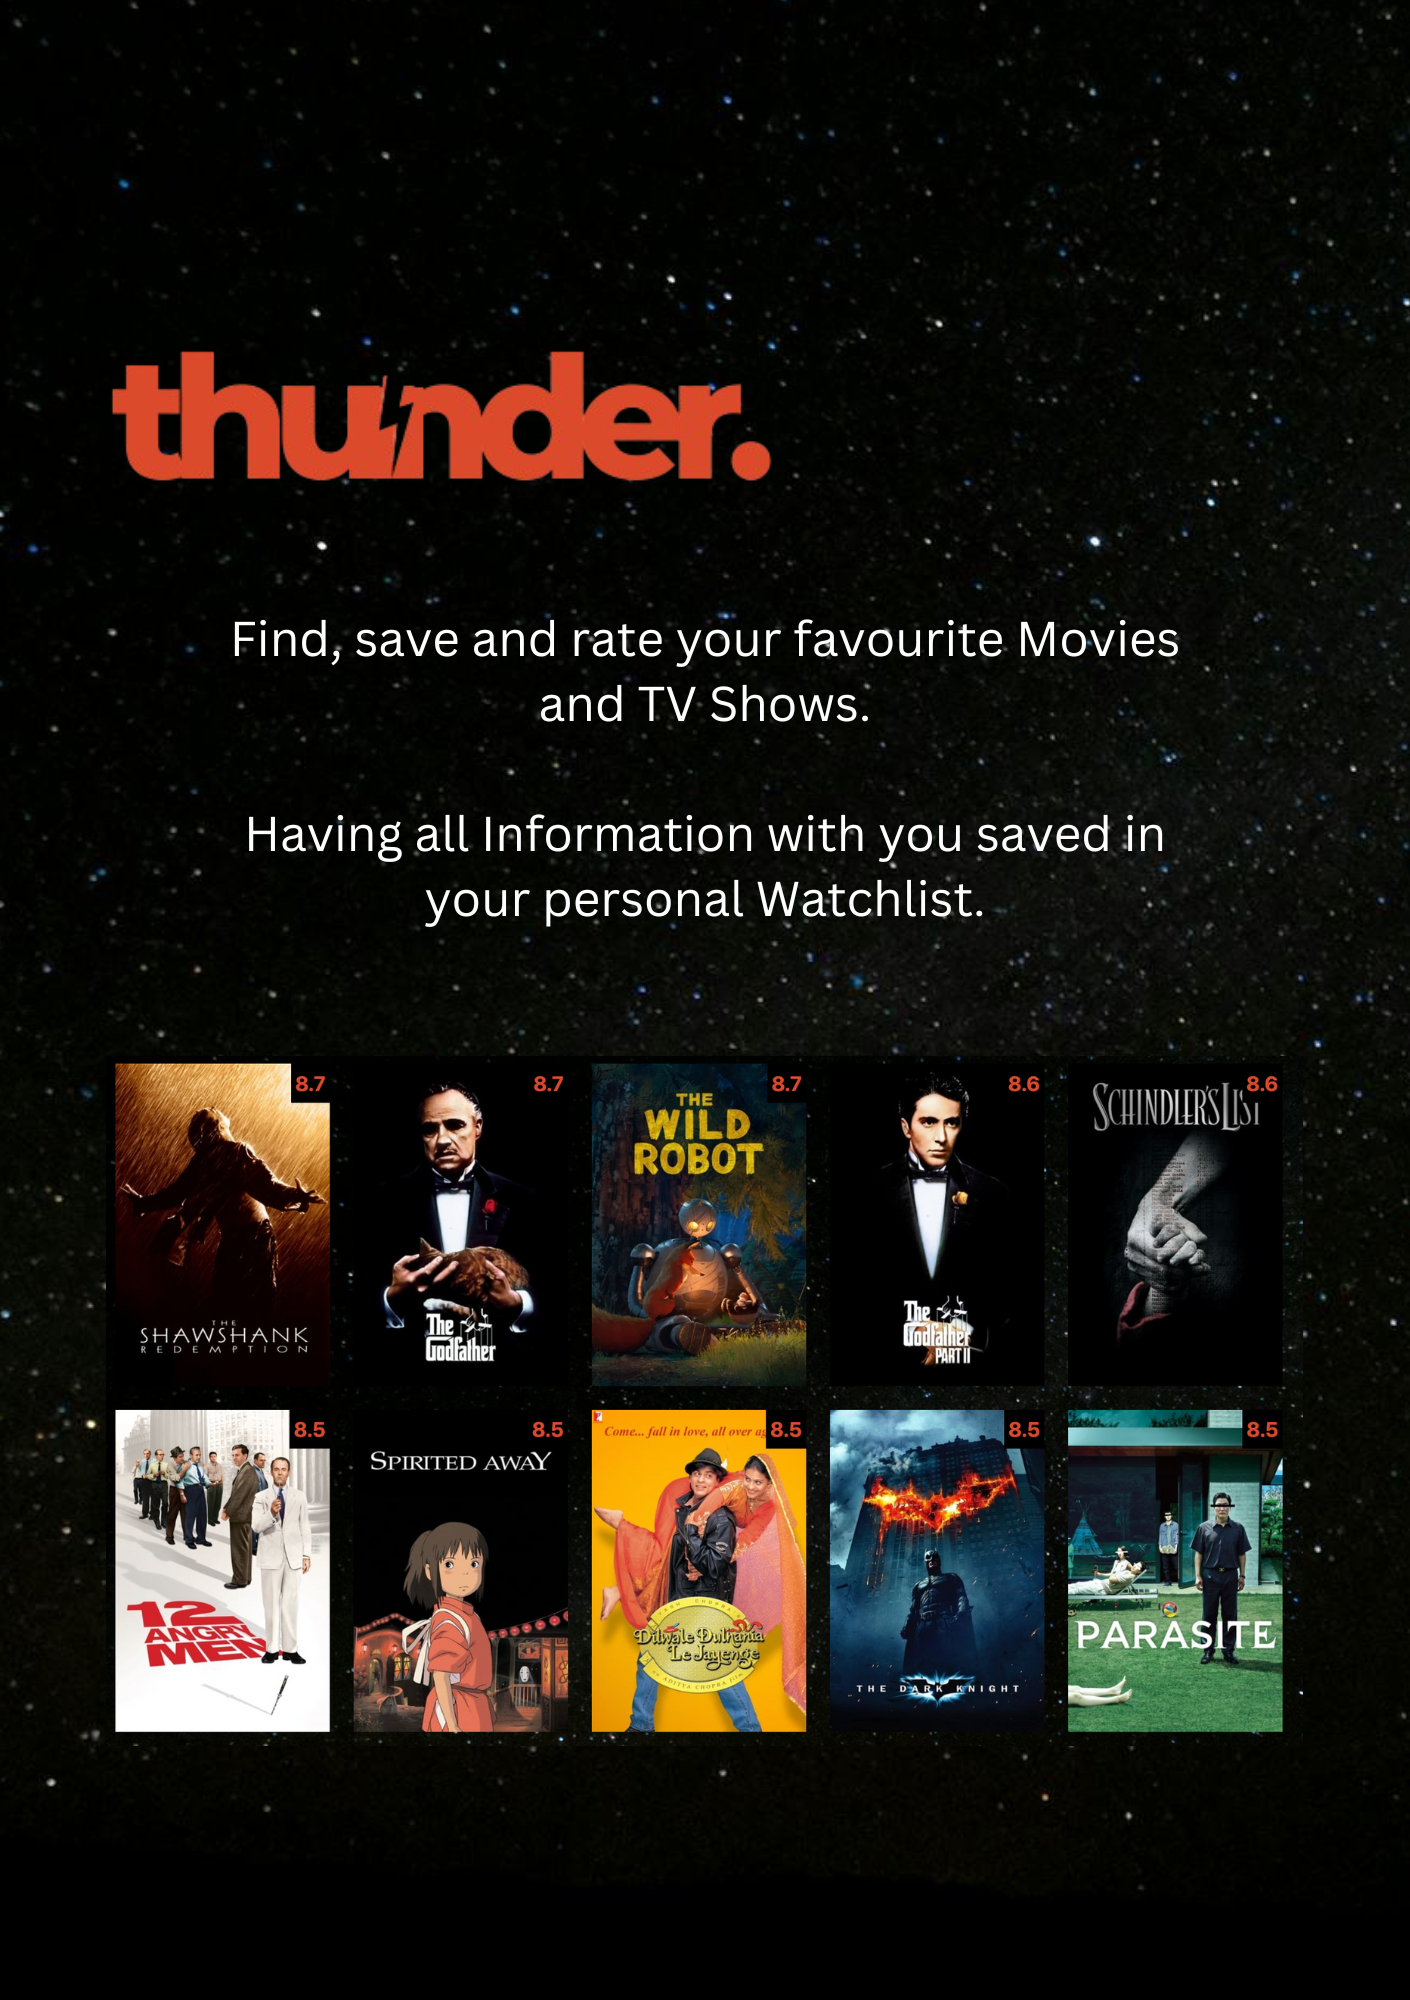
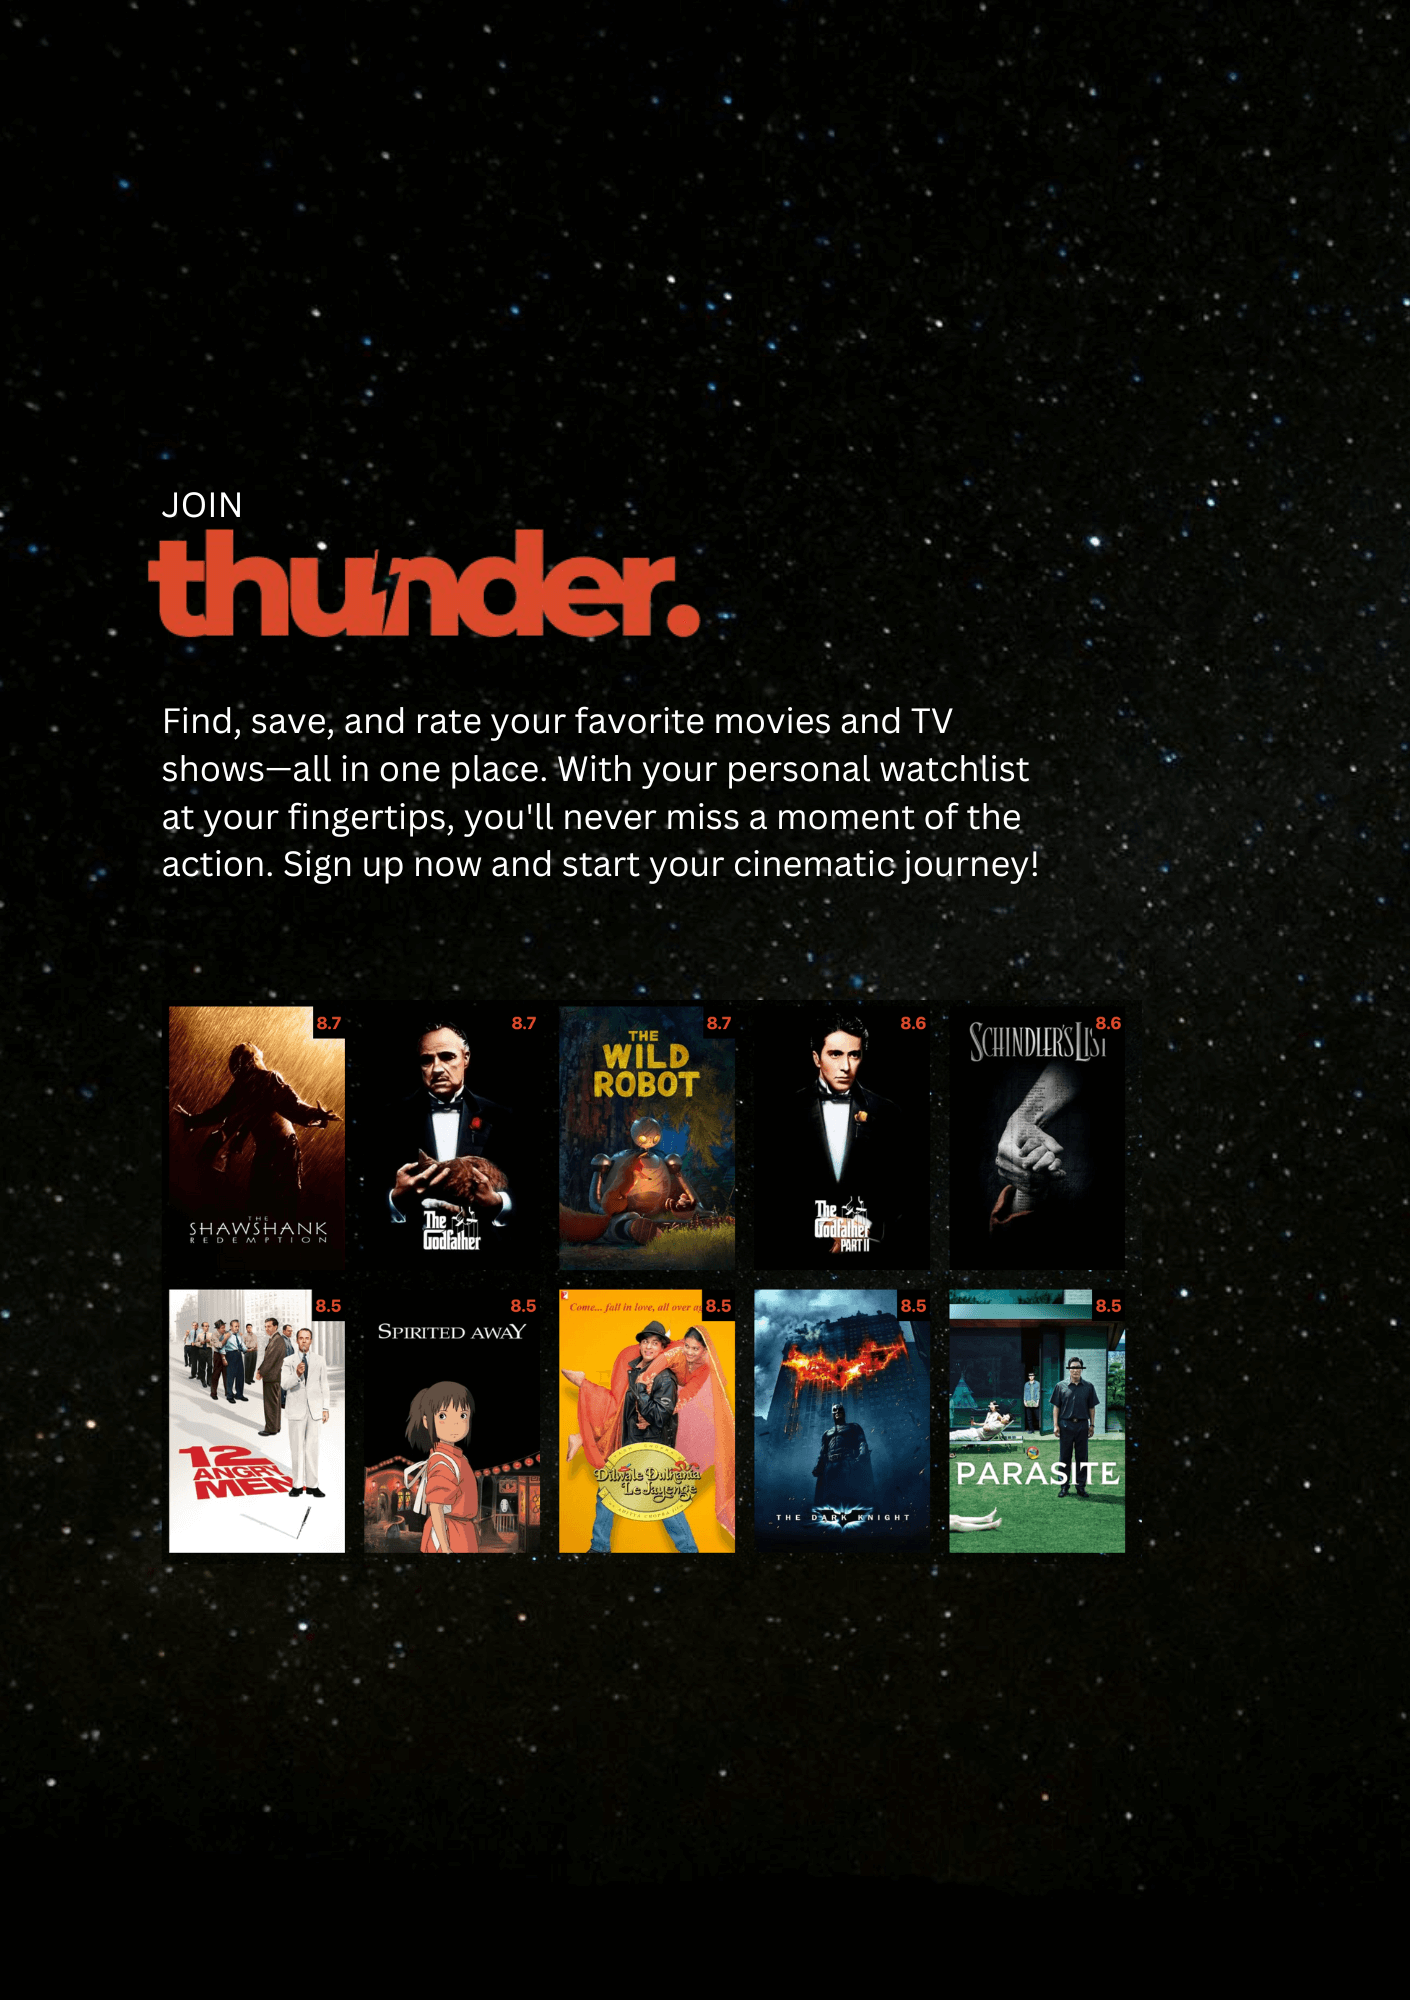
Designed Sign up and Login Page

Changed region(s): [[0.0624, 0.496, 0.9362, 0.868], [0.0624, 0.155, 0.8426, 0.465]]

diff --git a/templates/account/login.html b/templates/account/login.html
@@ -1,0 +1,143 @@
+{% load i18n %}
+{% load allauth account %}
+
+
+<style>
+    :root {
+        --main-orange: #db4a2b;
+    }
+
+    body, html {
+        margin: 0;
+        padding: 0;
+        height: 100%;
+    }
+
+    .login-container {
+        display: grid;
+        grid-template-columns: 60% 40%;
+        height: 100vh;
+        background-image: url("/static/css/images/background_space.jpg");
+    }
+    .login-image {
+        background-image: url("/static/css/images/thunder_login_sign_up_background.png");
+        background-size: cover;
+        background-position: center;
+    }
+    .login-form {
+        display: flex;
+        flex-direction: column;
+        justify-content: center;
+        padding: 40px;
+        color: white;
+        border-left: 1px var(--main-orange) solid;
+        font-size: 18px;
+    }
+    .helptext {
+        display: none;
+    }
+    .login-form h1 {
+        margin-bottom: 10px;
+        color: var(--main-orange);
+    }
+    .login-form button {
+        font-size: 20px;
+        font-weight: bold;
+        background-color: var(--main-orange);
+        color: white;
+        padding: 5px 10px;
+        width: 200px;
+        margin-bottom: 70px;
+        margin-top: 20px;
+        border-radius: 20px;
+        outline: none;
+        border: none;
+        cursor: pointer;
+    }
+    .login-form button:hover {
+        background-color: #c43a2a;
+    }
+
+    input {
+        border-radius: 20px;
+        padding: 5px 10px;
+        border: 2px solid var(--main-orange);
+        font-size: 18px;
+        background-color: #fae8e5;
+    }
+
+    a {
+        color: var(--main-orange);
+    }
+
+    label {
+        display: none;
+    }
+
+    label[for="id_remember"] {
+        display: inline-block;
+    }
+
+    input[type="checkbox"]:checked {
+        accent-color: var(--main-orange);
+    }
+
+    h1 {
+        font-size: 50px;
+    }
+</style>
+
+{% block content %}
+    <div class="login-container">
+        <div class="login-image"></div>
+        <div class="login-form">
+            {% element h1 %}
+                {% trans "Sign In" %}
+            {% endelement %}
+            {% if not SOCIALACCOUNT_ONLY %}
+                {% setvar link %}
+                    <a href="{{ signup_url }}">
+                {% endsetvar %}
+                {% setvar end_link %}
+                    </a>
+                {% endsetvar %}
+                {% element p %}
+                    {% blocktranslate %}If you have not created an account yet, then please {{ link }}sign up{{ end_link }} first.{% endblocktranslate %}
+                {% endelement %}
+                {% url 'account_login' as login_url %}
+                {% element form form=form method="post" action=login_url tags="entrance,login" %}
+                    {% slot body %}
+                        {% csrf_token %}
+                        {% element fields form=form unlabeled=True %}
+                        {% endelement %}
+                        {{ redirect_field }}
+                    {% endslot %}
+                    {% slot actions %}
+                        {% element button type="submit" tags="prominent,login" %}
+                            {% trans "Sign In" %}
+                        {% endelement %}
+                    {% endslot %}
+                {% endelement %}
+            {% endif %}
+            {% if LOGIN_BY_CODE_ENABLED or PASSKEY_LOGIN_ENABLED %}
+                {% element hr %}
+                {% endelement %}
+                {% element button_group vertical=True %}
+                    {% if PASSKEY_LOGIN_ENABLED %}
+                        {% element button type="submit" form="mfa_login" id="passkey_login" tags="prominent,login,outline,primary" %}
+                            {% trans "Sign in with a passkey" %}
+                        {% endelement %}
+                    {% endif %}
+                    {% if LOGIN_BY_CODE_ENABLED %}
+                        {% element button href=request_login_code_url tags="prominent,login,outline,primary" %}
+                            {% trans "Mail me a sign-in code" %}
+                        {% endelement %}
+                    {% endif %}
+                {% endelement %}
+            {% endif %}
+            {% if SOCIALACCOUNT_ENABLED %}
+                {% include "socialaccount/snippets/login.html" with page_layout="entrance" %}
+            {% endif %}
+        </div>
+    </div>
+{% endblock content %}

diff --git a/templates/account/signup.html b/templates/account/signup.html
@@ -13,8 +13,9 @@
 
     .signup-container {
         display: grid;
-        grid-template-columns: 1fr 1fr;
+        grid-template-columns: 60% 40%;
         height: 100vh;
+        background-image: url("/static/css/images/background_space.jpg");
     }
     .signup-image {
         background-image: url("/static/css/images/thunder_login_sign_up_background.png");
@@ -24,8 +25,12 @@
     .signup-form {
         display: flex;
         flex-direction: column;
-        justify-content: center;
+        justify-content: flex-end;
         padding: 40px;
+        color: white;
+        border-left: 1px var(--main-orange) solid;
+        font-size: 18px;
+        
     }
     .signup-form h1 {
         margin-bottom: 10px;
